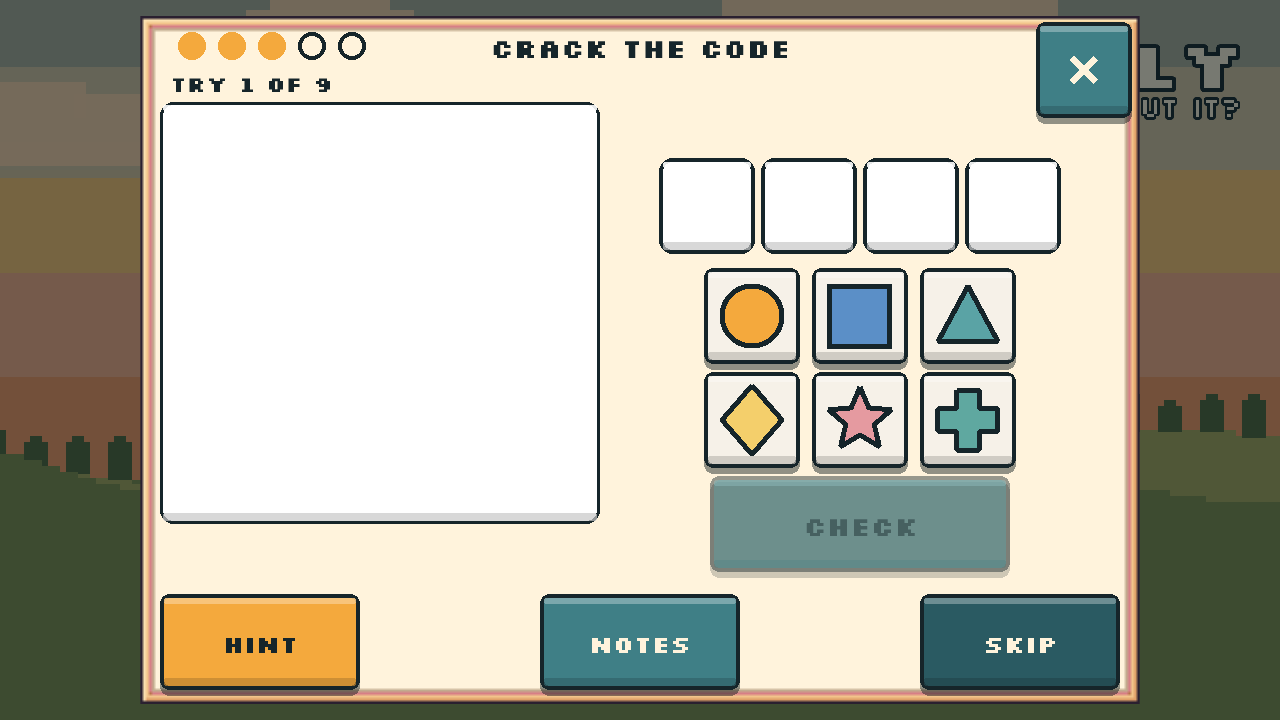
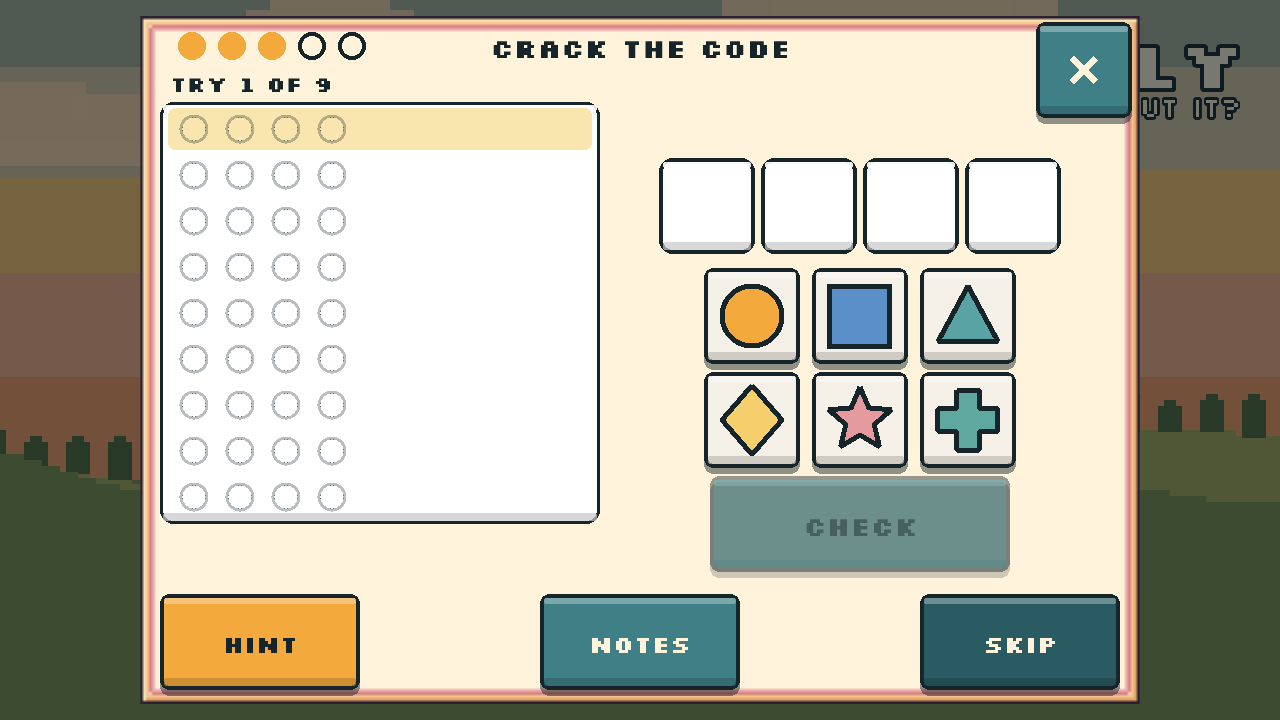
AI-7: Mastermind history shows empty peg rows and highlights the current row

diff --git a/src/puzzles/MastermindScene.ts b/src/puzzles/MastermindScene.ts
@@ -92,6 +92,13 @@ export class MastermindScene extends PuzzleShell {
       if (!t) continue;
       if (!row) {
         t.setText('');
+        const cy = HY + r * ROW_H + ROW_H / 2;
+        if (r === this.guesses.length) {
+          h.fillStyle(PAL.butter, 0.55);
+          h.fillRoundedRect(HX - 2, cy - ROW_H / 2 + 2, 424, ROW_H - 4, 8); // the row being guessed now
+        }
+        h.lineStyle(3, PAL.panelEdge, 0.3);
+        for (let c = 0; c < spec.slots; c++) h.strokeCircle(HX + 24 + c * 46, cy, 13); // empty peg holes
         continue;
       }
       row.forEach((sym, c) => drawSymbol(h, sym, HX + 24 + c * 46, HY + r * ROW_H + ROW_H / 2, 15));

diff --git a/docs/status/AI-7.md b/docs/status/AI-7.md
@@ -25,7 +25,7 @@
 
 ## Honest notes
 - Code and Sort have no harder variant above level 3 (Sort level 4-5 repeats the 'combo' mode). AI-2 owns that logic; I did not invent any.
-- Seen on screen: the cream wooden panel, pixel font, Hint/Notes/Skip row inside the panel and the close button are consistent across all 11, nothing overlaps at 1280x720. Slide and Memory grids enlarged (tiles 96 -> 140 px, pads 110 -> 140 px). Word cipher key enlarged (13 -> 18 px) and spaced clear of the slots. Weakest: Mastermind history box empty and blank, close X sticks out of the panel corner,.
+- Seen on screen: the cream wooden panel, pixel font, Hint/Notes/Skip row inside the panel and the close button are consistent across all 11, nothing overlaps at 1280x720. Slide and Memory grids enlarged (tiles 96 -> 140 px, pads 110 -> 140 px). Word cipher key enlarged (13 -> 18 px) and spaced clear of the slots. Weakest: Mastermind history now shows empty row guides (done), close X sticks out of the panel corner,.
 - Text is still small: `makeText` in `src/puzzles/ui.ts` scales every size by 0.8, so body text is 14-27 px, below the 28 px target. Fixing it means re-fitting each scene's layout.
 
 ## Requests
